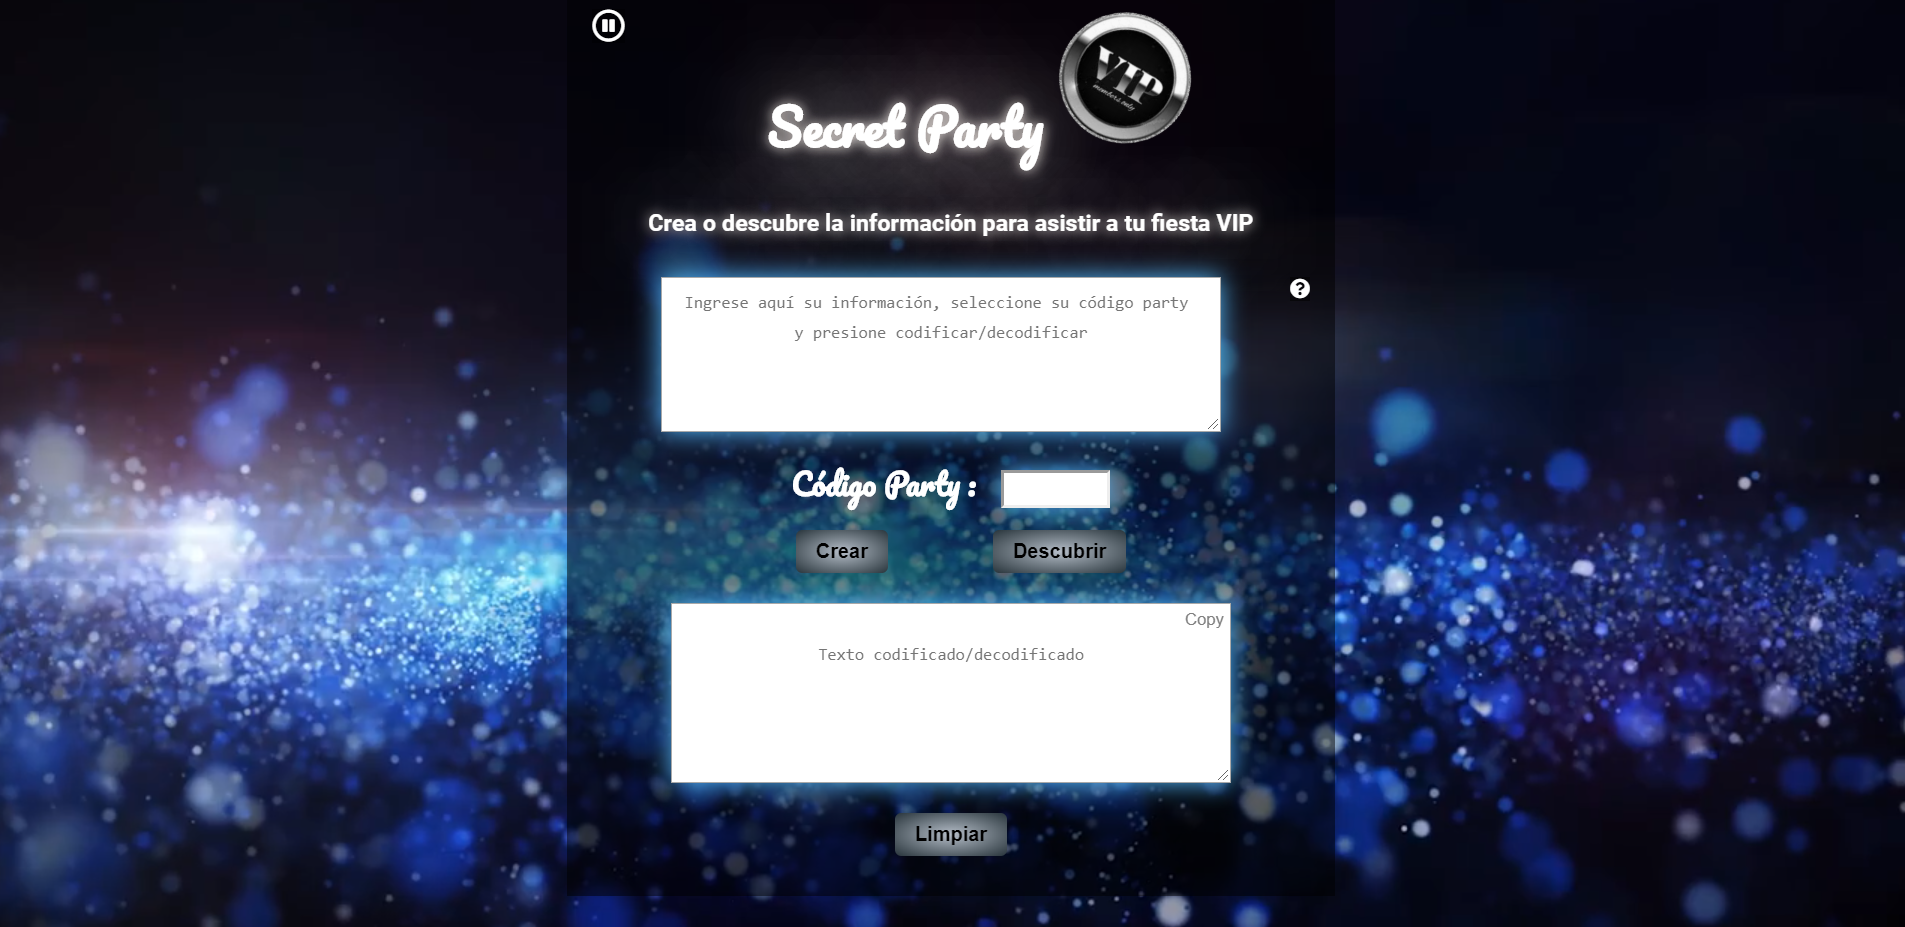
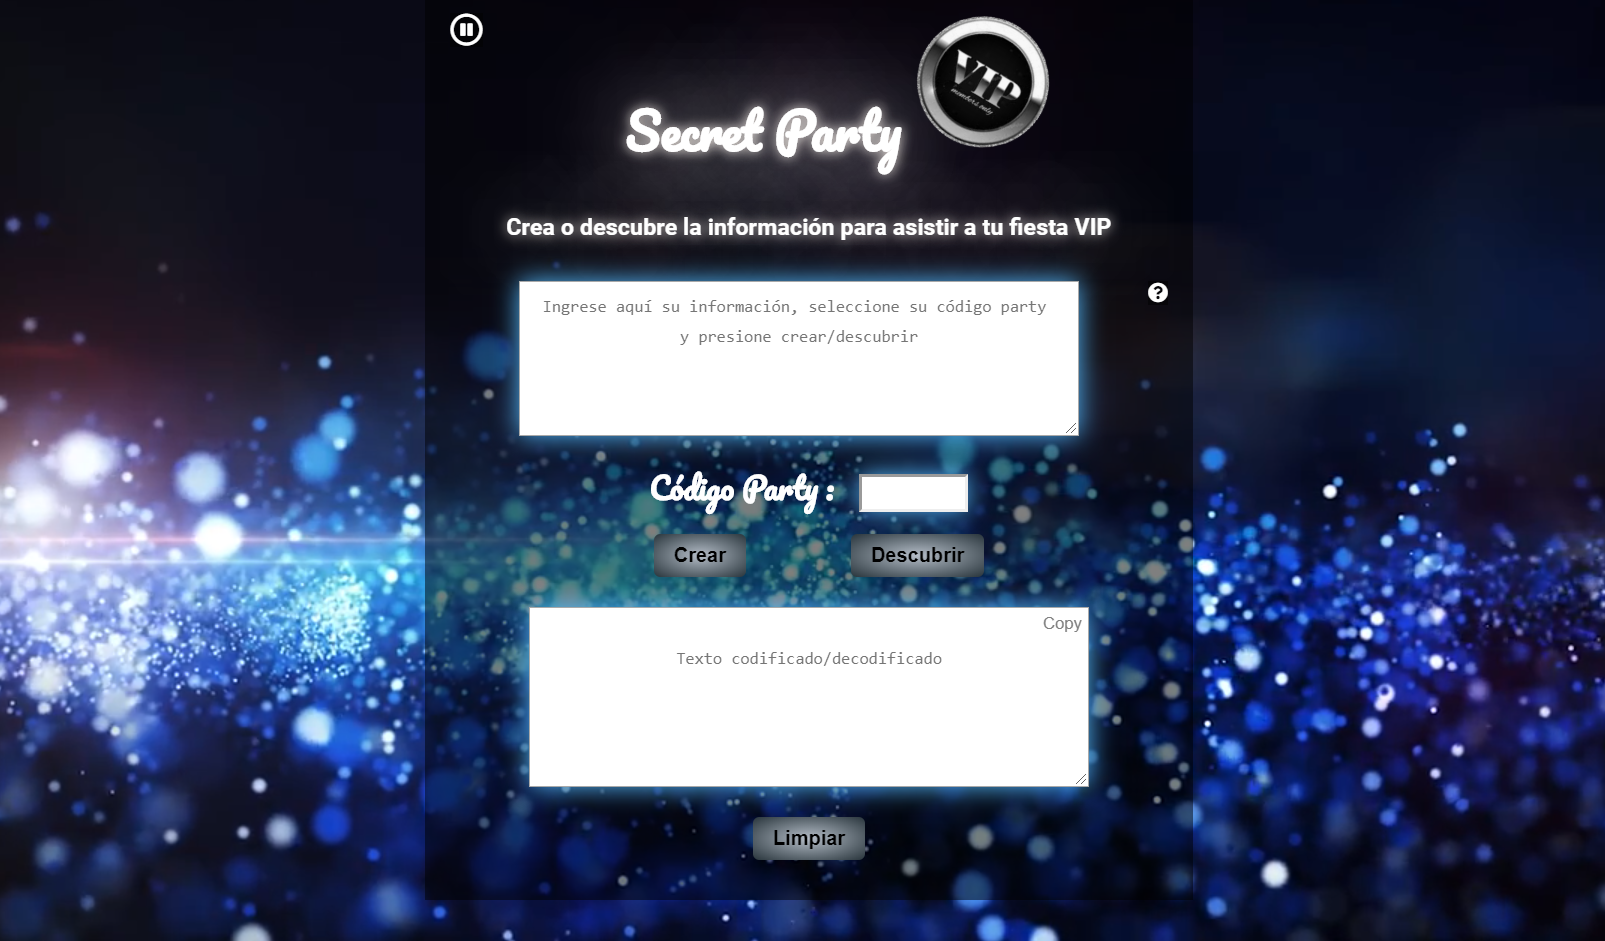
imágenes

diff --git a/src/index.html b/src/index.html
@@ -56,7 +56,7 @@
       </div>
 
       <!-- mensaje ingresado al textarea -->
-      <textarea name="message1" id="message1" rows="8" cols="60" placeholder="Ingrese aquí su información, seleccione su código party y presione codificar/decodificar"></textarea>
+      <textarea name="message1" id="message1" rows="8" cols="60" placeholder="Ingrese aquí su información, seleccione su código party y presione crear/descubrir"></textarea>
 
       <div class="offsetText">
         <label for="offset1" id="label1">Código Party :</label>
